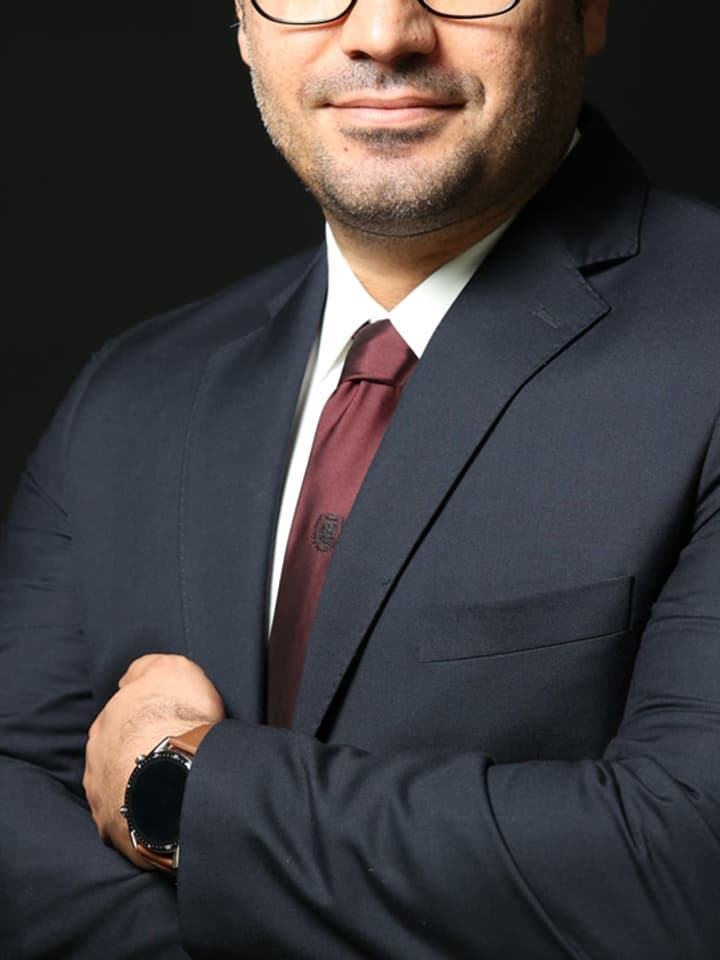
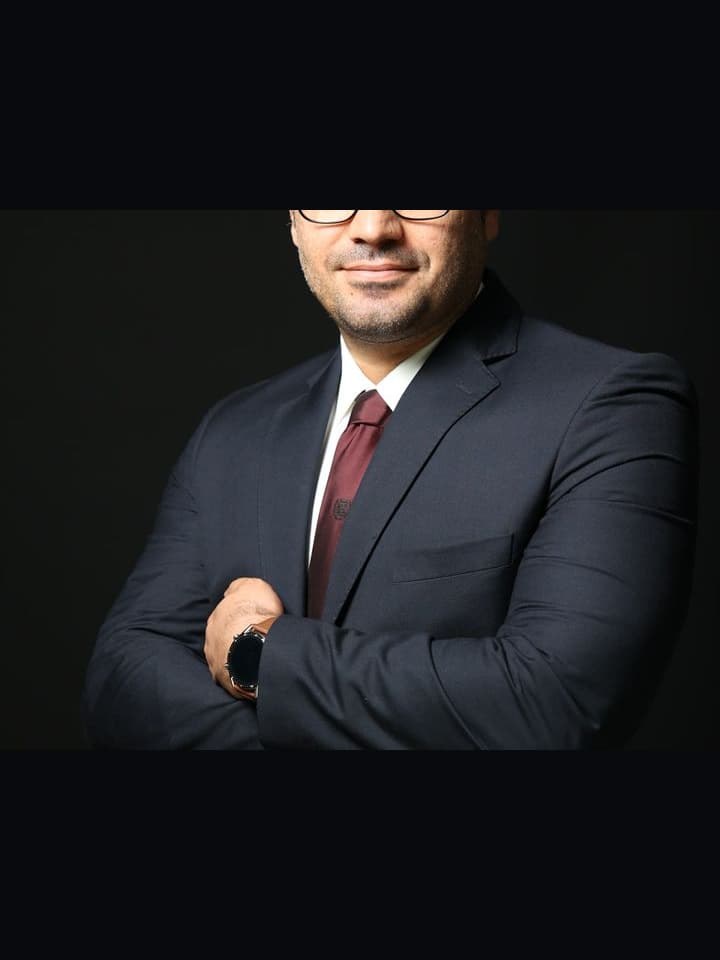
fix: Zoom out portrait to show complete headshot

diff --git a/src/components/about.tsx b/src/components/about.tsx
@@ -30,10 +30,10 @@ export function About() {
               src="/portrait.jpg"
               alt="Mahmood Asadi"
               fill
-              className="object-cover object-top"
+              className="object-cover object-center"
               quality={70}
               placeholder="blur"
[2 lines of base64/hex data omitted]
               sizes="(max-width: 640px) 280px, 360px"
             />
           </div>
